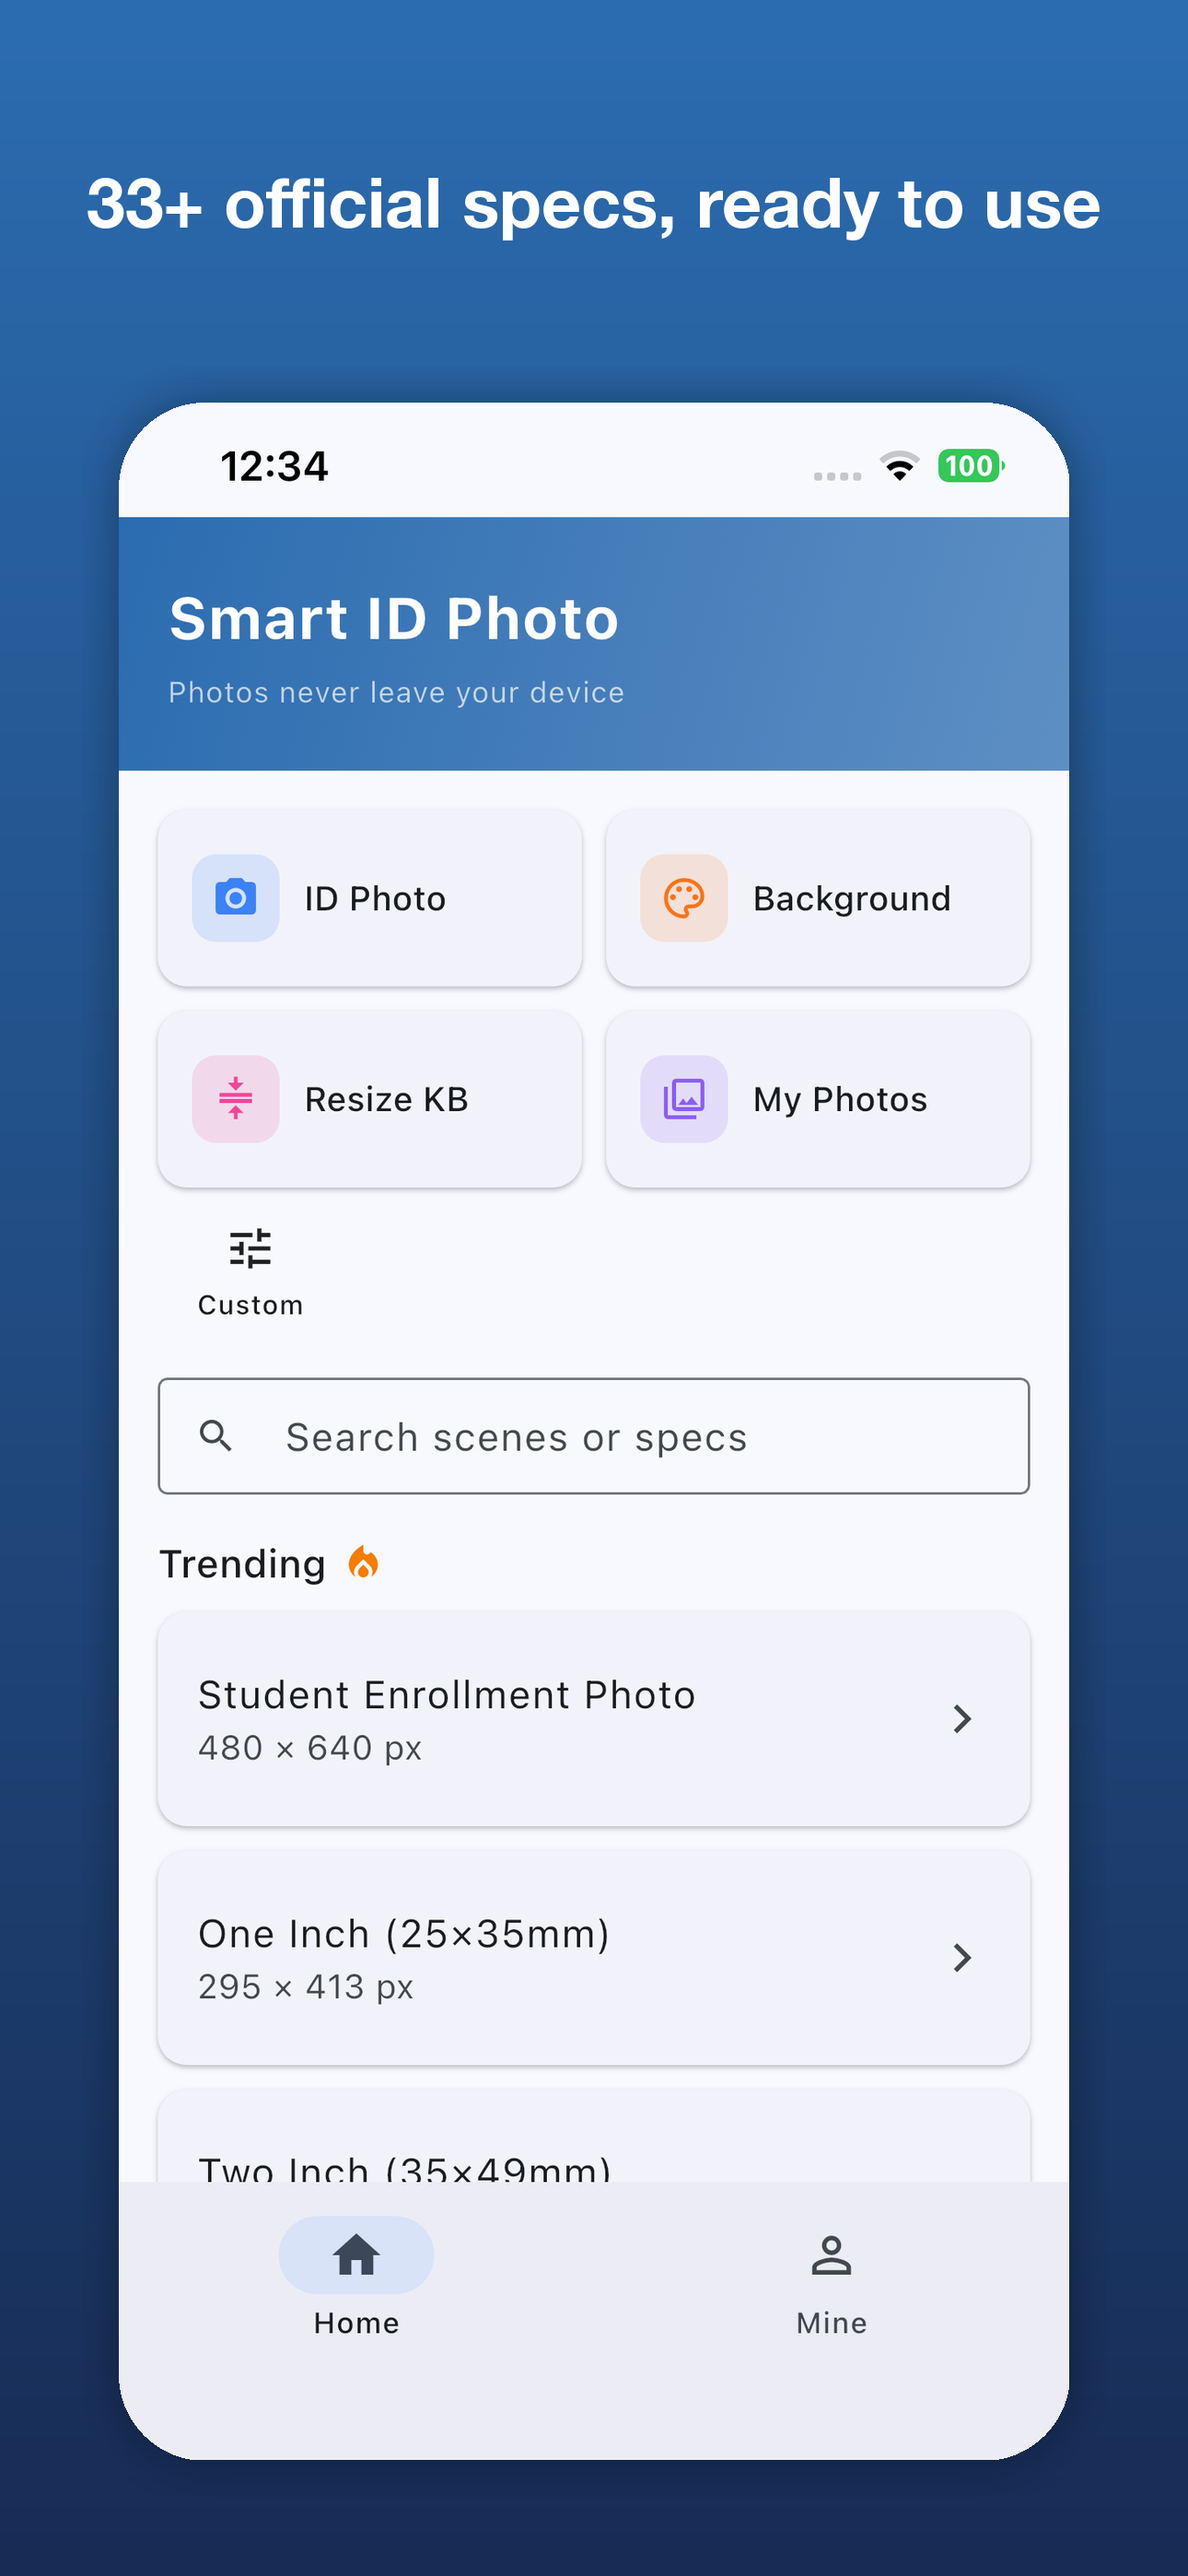
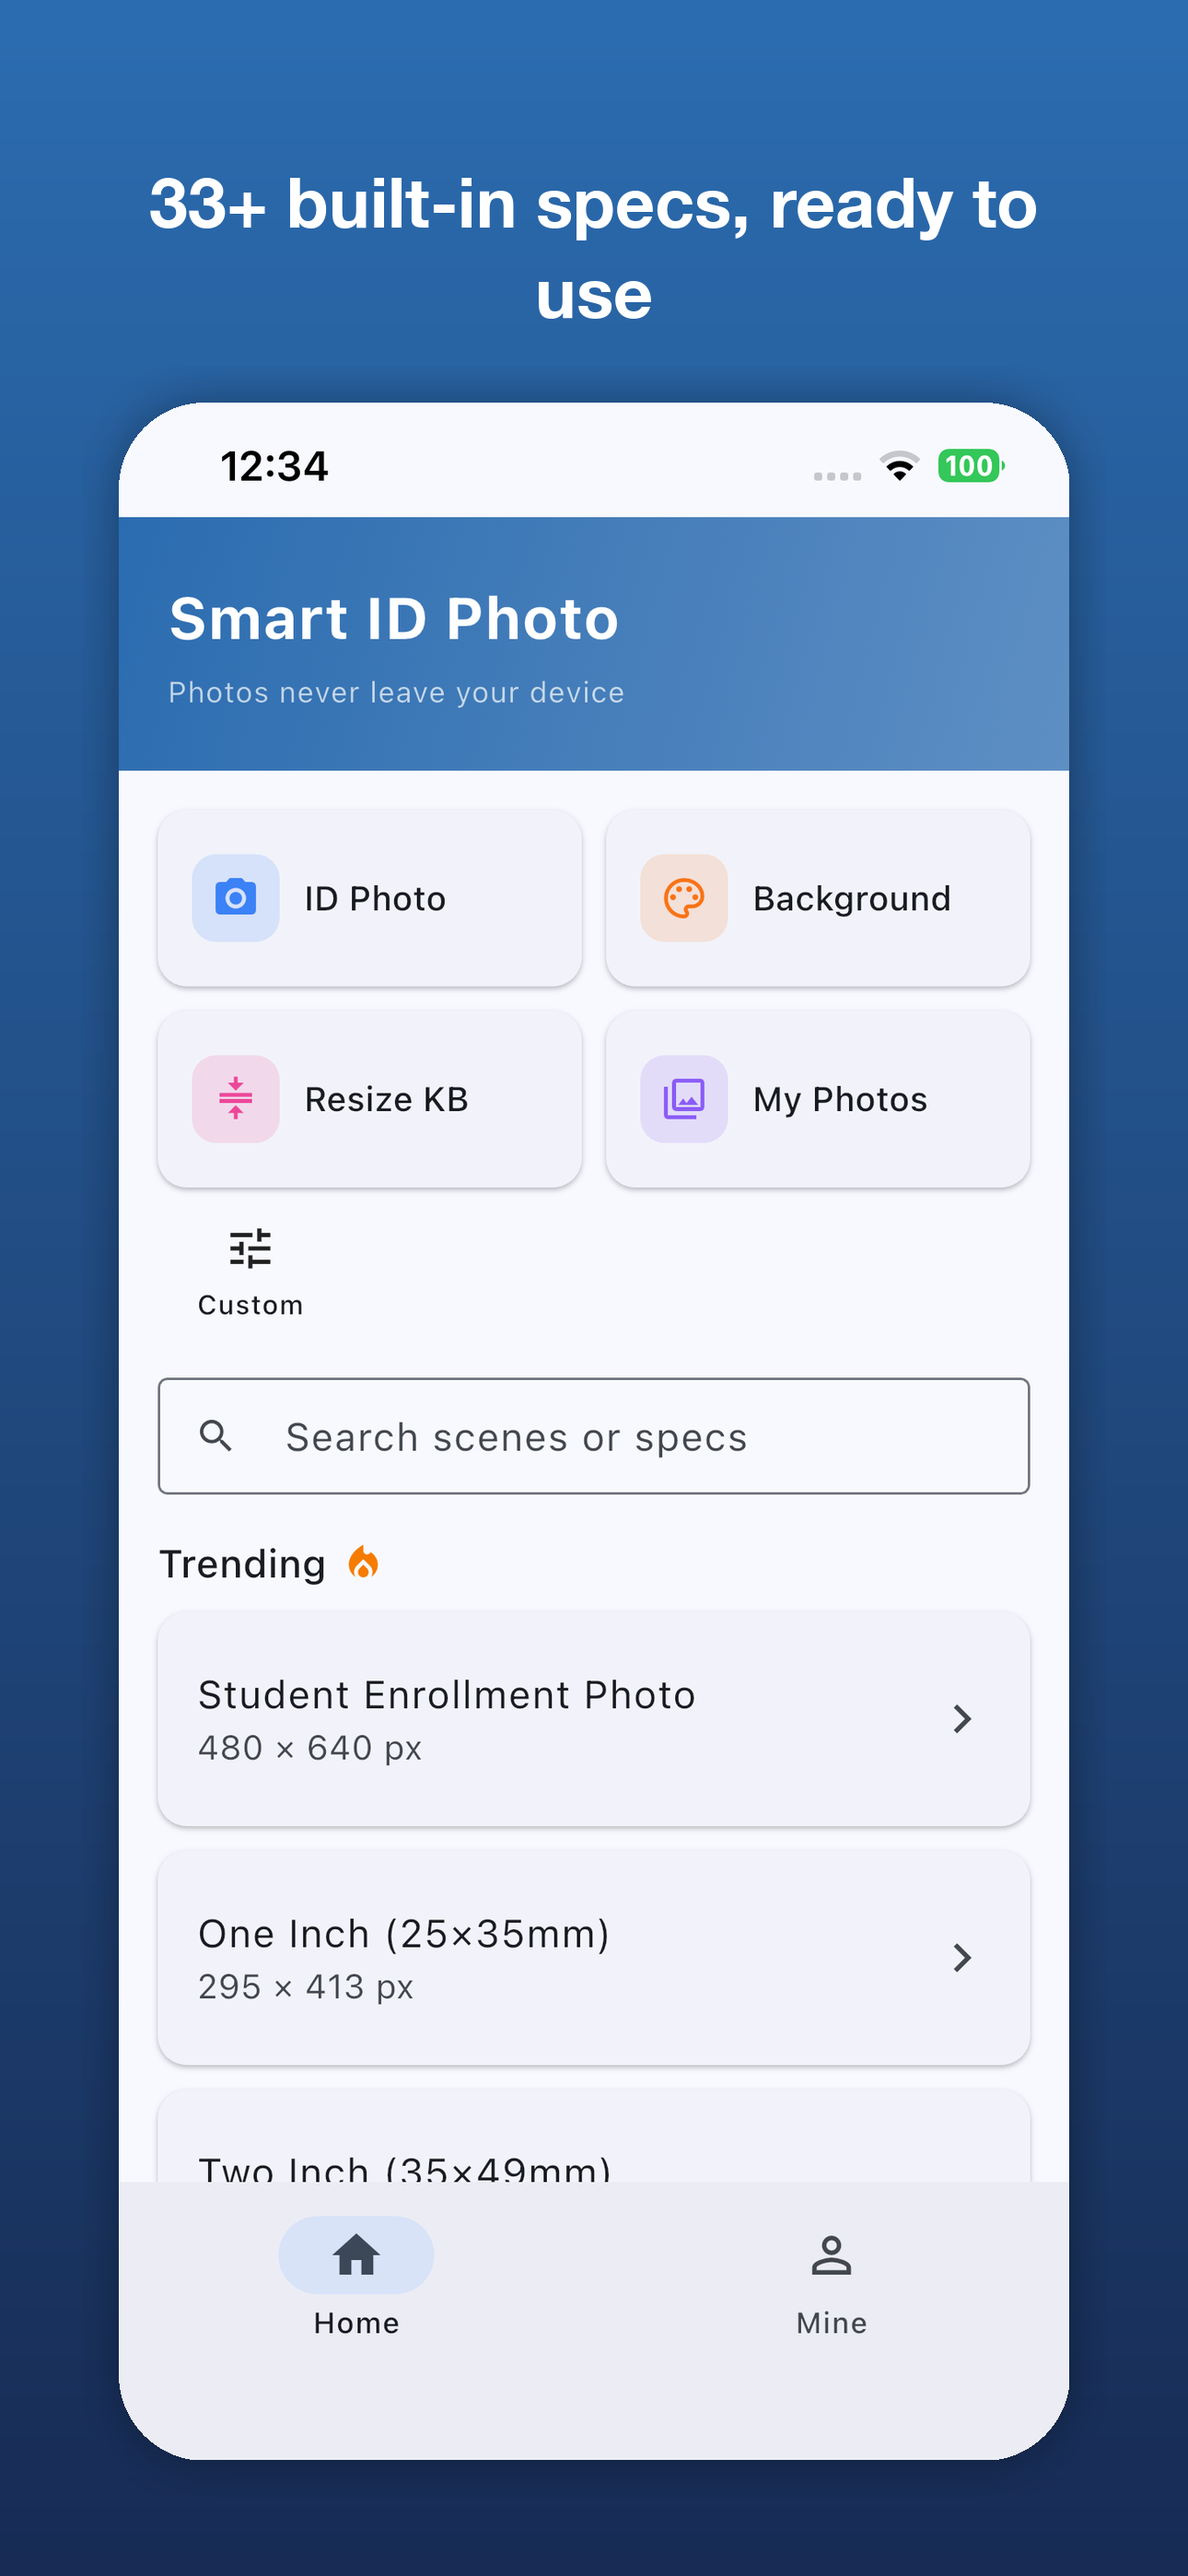
docs+screenshots: 应对 1.1.6 拒审——截图/描述去除官方措辞并加非政府声明

Changed region(s): [[0.062, 0.0622, 0.9302, 0.1245]]

diff --git a/test/tools/compose_screenshots.py b/test/tools/compose_screenshots.py
@@ -23,7 +23,7 @@ SETS = {
     'zh': {
         'shots': ['01_home.png', '02_edit_result.png', '03_sliders.png',
                   '04_result.png', '05_edit_red.png'],
-        'titles': ['33+ 官方规格，开箱即用', 'AI 抠图换底，全在本机完成',
+        'titles': ['33+ 内置规格，开箱即用', 'AI 抠图换底，全在本机完成',
                    '美颜与清晰度，随手微调', '保存前逐项合规检测',
                    '蓝白红灰，底色秒切'],
         'font': ('/System/Library/Fonts/Hiragino Sans GB.ttc', 2),  # W6
@@ -31,7 +31,7 @@ SETS = {
     'en': {
         'shots': ['en_01_home.png', 'en_02_edit.png', 'en_03_sliders.png',
                   'en_04_result.png', 'en_05_red.png'],
-        'titles': ['33+ official specs, ready to use',
+        'titles': ['33+ built-in specs, ready to use',
                    'AI cutout and recolor, on your device',
                    'Fine-tune skin and sharpness',
                    'Checked before you save',
